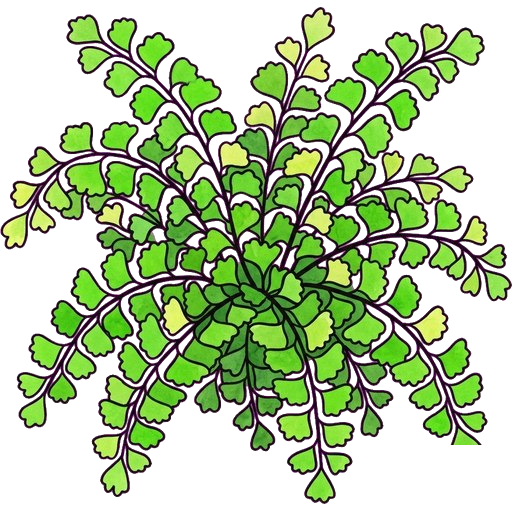
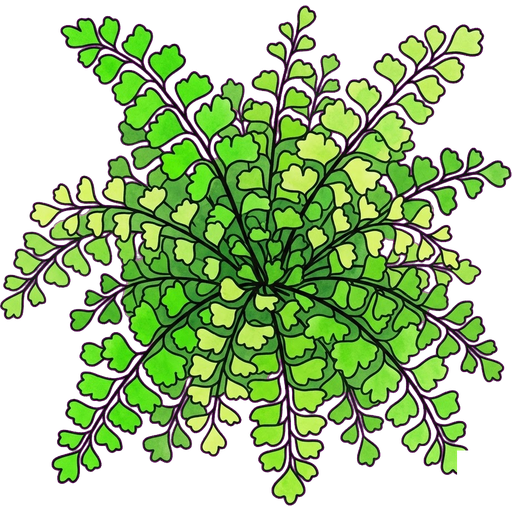
Sticker: add Broad Buckler Fern + Maidenhair Fern v2 (75% fill, bushy)

diff --git a/app/src/data/packs/pack-ferns-woodland.js b/app/src/data/packs/pack-ferns-woodland.js
@@ -74,4 +74,13 @@ export const entries = [
     traits: ['shade', 'semi-evergreen', 'soft'],
   },
 
+  {
+    key: 'plant-fern_broad-buckler-fern_L_CA-US-FR-GB-AU',
+    label: 'Broad Buckler Fern',
+    size: 'L',
+    latinName: 'Dryopteris dilatata',
+    searchTerms: ['broad buckler fern', 'dryopteris dilatata'],
+    traits: ['shade', 'semi-evergreen', 'spreading'],
+  },
+
 ];

diff --git a/tools/sticker-generate-one.py b/tools/sticker-generate-one.py
@@ -93,9 +93,9 @@ PLANT_LOOKUP = {
     "ostrich fern":      ("plant-fern_ostrich-fern",      "L",  384, "Fern / Groundcover", "plant", "vivid green #5AB83A, deep green #2A6A3A, bright lime-green #7AC83A, pale green #8ABF6A, dark outline #0A1A0A", "Iconic vase-shaped fern with large broadly lance-shaped fronds that are wide in the middle and narrow at both ends, fronds spreading dramatically outward like a shuttlecock or ostrich plume."),
     "japanese painted fern": ("plant-fern_japanese-painted-fern", "M", 256, "Fern / Groundcover", "plant", "silver-grey #A8B8B0, pewter-green #7A9A8A, burgundy-red midrib #8B2A2A, pale silver fronds #C8D8D0, dark outline #0A1818", "Bushy fern with many fronds, distinctive silver-grey fronds marked with a deep burgundy-red midrib, fronds are pinnate and elegantly arched, full lush clump radiating from centre, giving a painted metallic appearance."),
     "hart's tongue fern": ("plant-fern_harts-tongue-fern", "M", 256, "Fern / Groundcover", "plant", "deep glossy green #1A6A3A, bright green #4AAF5A, pale green #8ABF6A, dark outline #0A1A0A", "Highly distinctive fern with undivided strap-shaped glossy green fronds arising from the centre in a rosette, each frond is a single uncut strap — no leaflets, no divisions — glossy and leathery. Plant fills 60% of the canvas, centred, with plenty of space around it."),
-    "maidenhair fern":   ("plant-fern_maidenhair-fern",   "M",  256, "Fern / Groundcover", "plant", "bright green #5AB83A, mid green #4A8A3A, black wiry stems #1A0A0A, pale yellow-green #A8D870, dark outline #0A1A0A", "Dense bushy fern, plant centered and taking up 75% of the center of the image, slender black wiry stems bearing fan-shaped light green leaflets arranged in gentle arching fronds, lush full appearance like masses of green fans on black wire."),
+    "maidenhair fern":   ("plant-fern_maidenhair-fern",   "M",  256, "Fern / Groundcover", "plant", "bright green #5AB83A, mid green #4A8A3A, black wiry stems #1A0A0A, pale yellow-green #A8D870, dark outline #0A1A0A", "Plant takes up 75% of the center of the image. Bushy fronds. Dense spreading maidenhair fern with many slender black wiry stems bearing fan-shaped light green leaflets, full lush clump radiating from centre."),
     "soft shield fern":  ("plant-fern_soft-shield-fern",  "L",  384, "Fern / Groundcover", "plant", "mid green #4A8A3A, deep green #2A6A3A, bright green tips #6AAF5A, pale green undersides #8ABF6A, dark outline #0A1A0A", "Arching spreading fern with softly textured pinnate fronds, each frond has finely divided pinnules giving a lacy feathery appearance, fronds arch gently outward from the centre in a spreading clump."),
-    "broad buckler fern": ("plant-fern_broad-buckler-fern", "L", 384, "Fern / Groundcover", "plant", "mid green #4A8A3A, deep green #2A6A3A, grey-green undersides #7A9A7A, dark outline #0A1A0A", "Large broadly triangular spreading fern with wide-angled pinnate fronds, each frond broadly triangular in outline and spreading wide, the plant making a broad low carpet of overlapping fronds."),
+    "broad buckler fern": ("plant-fern_broad-buckler-fern", "L", 384, "Fern / Groundcover", "plant", "mid green #4A8A3A, deep green #2A6A3A, grey-green undersides #7A9A7A, dark outline #0A1A0A", "Bushy fern with many fronds, side view, large broadly triangular spreading fronds arching outward and upward from the centre, each frond broadly triangular with wide-angled pinnate leaflets, full lush clump."),
     "royal fern":        ("plant-fern_royal-fern",        "XL", 512, "Fern / Groundcover", "plant", "vivid green #5AB83A, deep green #2A6A3A, mid green #4A8A5A, brown fertile fronds #8A5A2A, dark outline #0A1A0A", "Tall imposing fern with large broadly lance-shaped fronds that are pinnate with widely spaced rounded pinnules, some fronds have distinct brown fertile tips at the crown, overall an open vase shape."),
     "interrupted fern":  ("plant-fern_interrupted-fern",  "L",  384, "Fern / Groundcover", "plant", "mid green #4A8A3A, bright green #5AB83A, dark brown fertile pinnules #6A3A1A, pale green #8ABF6A, dark outline #0A1A0A", "Distinctive fern with pinnate fronds interrupted midway along by pairs of shrivelled dark brown fertile pinnules, creating a gap in the otherwise green frond — the unique interrupted appearance."),
     "cinnamon fern":     ("plant-fern_cinnamon-fern",     "L",  384, "Fern / Groundcover", "plant", "vivid green #5AB83A, deep green #2A6A3A, warm cinnamon-brown #A85A2A, mid green #4A8A5A, dark outline #0A1A0A", "Vase-shaped fern with two distinct frond types: large spreading bright green sterile fronds surrounding upright cinnamon-brown fertile fronds at the centre — the brown fertile fronds giving the plant its name."),
